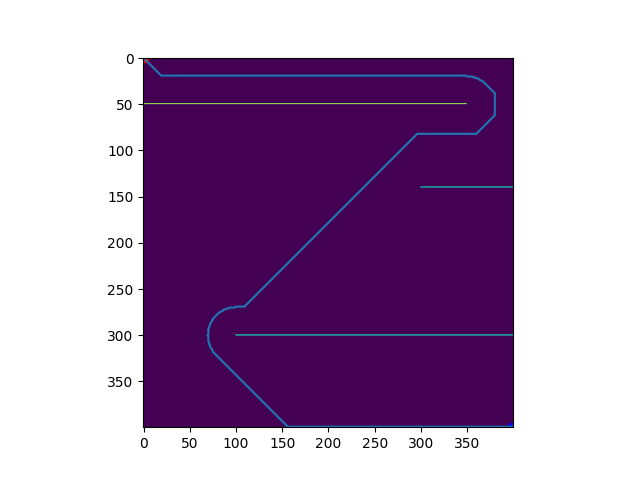
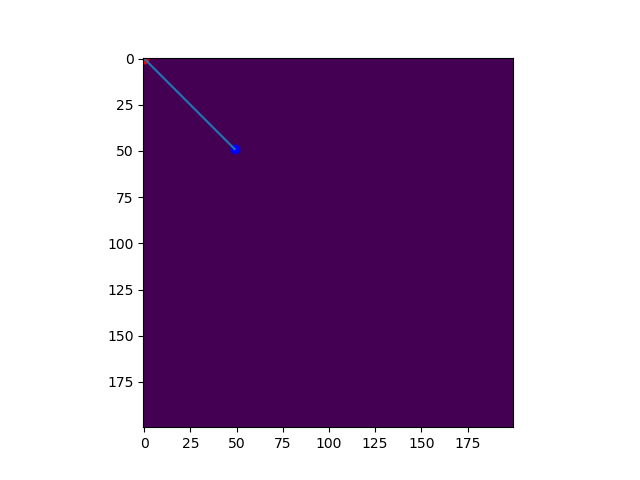
Fixing a* seg fault issues and other mapping quirks

diff --git a/src/ros/rover/src/a_star_simple.cpp b/src/ros/rover/src/a_star_simple.cpp
@@ -12,15 +12,11 @@
 #include <tuple>
 #include <chrono>
 #include <iterator>
-#include<list>
+#include <list>
 #include <fstream>
 #include <string>
-#include <pybind11/pybind11.h>
-#include <pybind11/stl.h>
-#include <pybind11/numpy.h>
 using namespace std;
 
-namespace py = pybind11;
 
 /* These two parameters affect how much we value safety over distance.
    Increasing rover width will padd more widely around obstacles, and 
@@ -41,10 +37,6 @@ typedef tuple<double, int, int> Tuple;
 // All possible neighbour points on an octile map
 const array<Pair, 8> NEIGHBOURS = {{{0, 1}, {0, -1}, {1, 0}, {-1, 0},
 									{1, 1}, {1, -1}, {-1, 1}, {-1, -1}}};
-
-void hello_world(){
-    std::cout << "hello world" << std::endl;
-}
 
 // A structure to hold the necessary parameters
 struct cell {
@@ -441,12 +433,6 @@ int main()
 	// Destination is the left-most top-most corner
 	Pair dest(199, 199);
 	vector<Pair> path = aStarSearch(grid, src, dest, 2.5);
+
 	return 0;
 }
-
-PYBIND11_MODULE(a_star, module_handle) {
-    module_handle.doc() = "Nova Rover A* C++ search algorithm binded to Python3";
-    module_handle.def("a_star", &aStarSearch<200, 200>); // 10 cm resolution
-    module_handle.def("hello_world", &hello_world); // 2.5 cm resolution
-}
-

diff --git a/src/ros/rover/autonomous/grid_3d.py b/src/ros/rover/autonomous/grid_3d.py
@@ -44,9 +44,9 @@ class Grid3D:
         lower_index = int((pose_msg.pose.pose.position.z + self.height / 2 - len_down) / self.resolution)
         return np.sum(self.map[:, :, lower_index:upper_index, 0], axis=2) > 0
 
-    def extract_z_layer(self, height_m):
+    def extract_z(self, height_m):
         height_index = int(height_m / self.resolution)
-        return self.map[:, :, height_index]
+        return self.map[:, :, 30]
 
     def get_indexes(self, points):
         """

diff --git a/src/ros/rover/autonomous/test_cpp_astar.py b/src/ros/rover/autonomous/test_cpp_astar.py
@@ -18,8 +18,8 @@ import matplotlib.pyplot as plt
 
     return array
 """
-arr = np.zeros((150, 150))
-p1, p2 = (0, 0), (149, 149)
+arr = np.zeros((200, 200))
+p1, p2 = (0, 0), (49, 49)
 
 #arr = add_obs(arr)
 
@@ -29,7 +29,7 @@ print(time.perf_counter() - t)
 
 plt.imshow(arr)
 plt.plot(0, 0, 'ro')
-plt.plot(149, 149, 'bo')
+plt.plot(49, 49, 'bo')
 plt.plot(path[:,1], path[:,0])
 plt.savefig("path.png")
 

diff --git a/src/ros/rover/autonomous/mapper.py b/src/ros/rover/autonomous/mapper.py
@@ -101,7 +101,7 @@ class Mapper(Node):
         return np.array([x, y, z])
 
     def extract_layer(self, height_m):
-        return self.map3d.extract_z_layer(height_m)
+        return self.map3d.extract_z(height_m)
 
     def get_points_and_colors(self, msg):
         """
